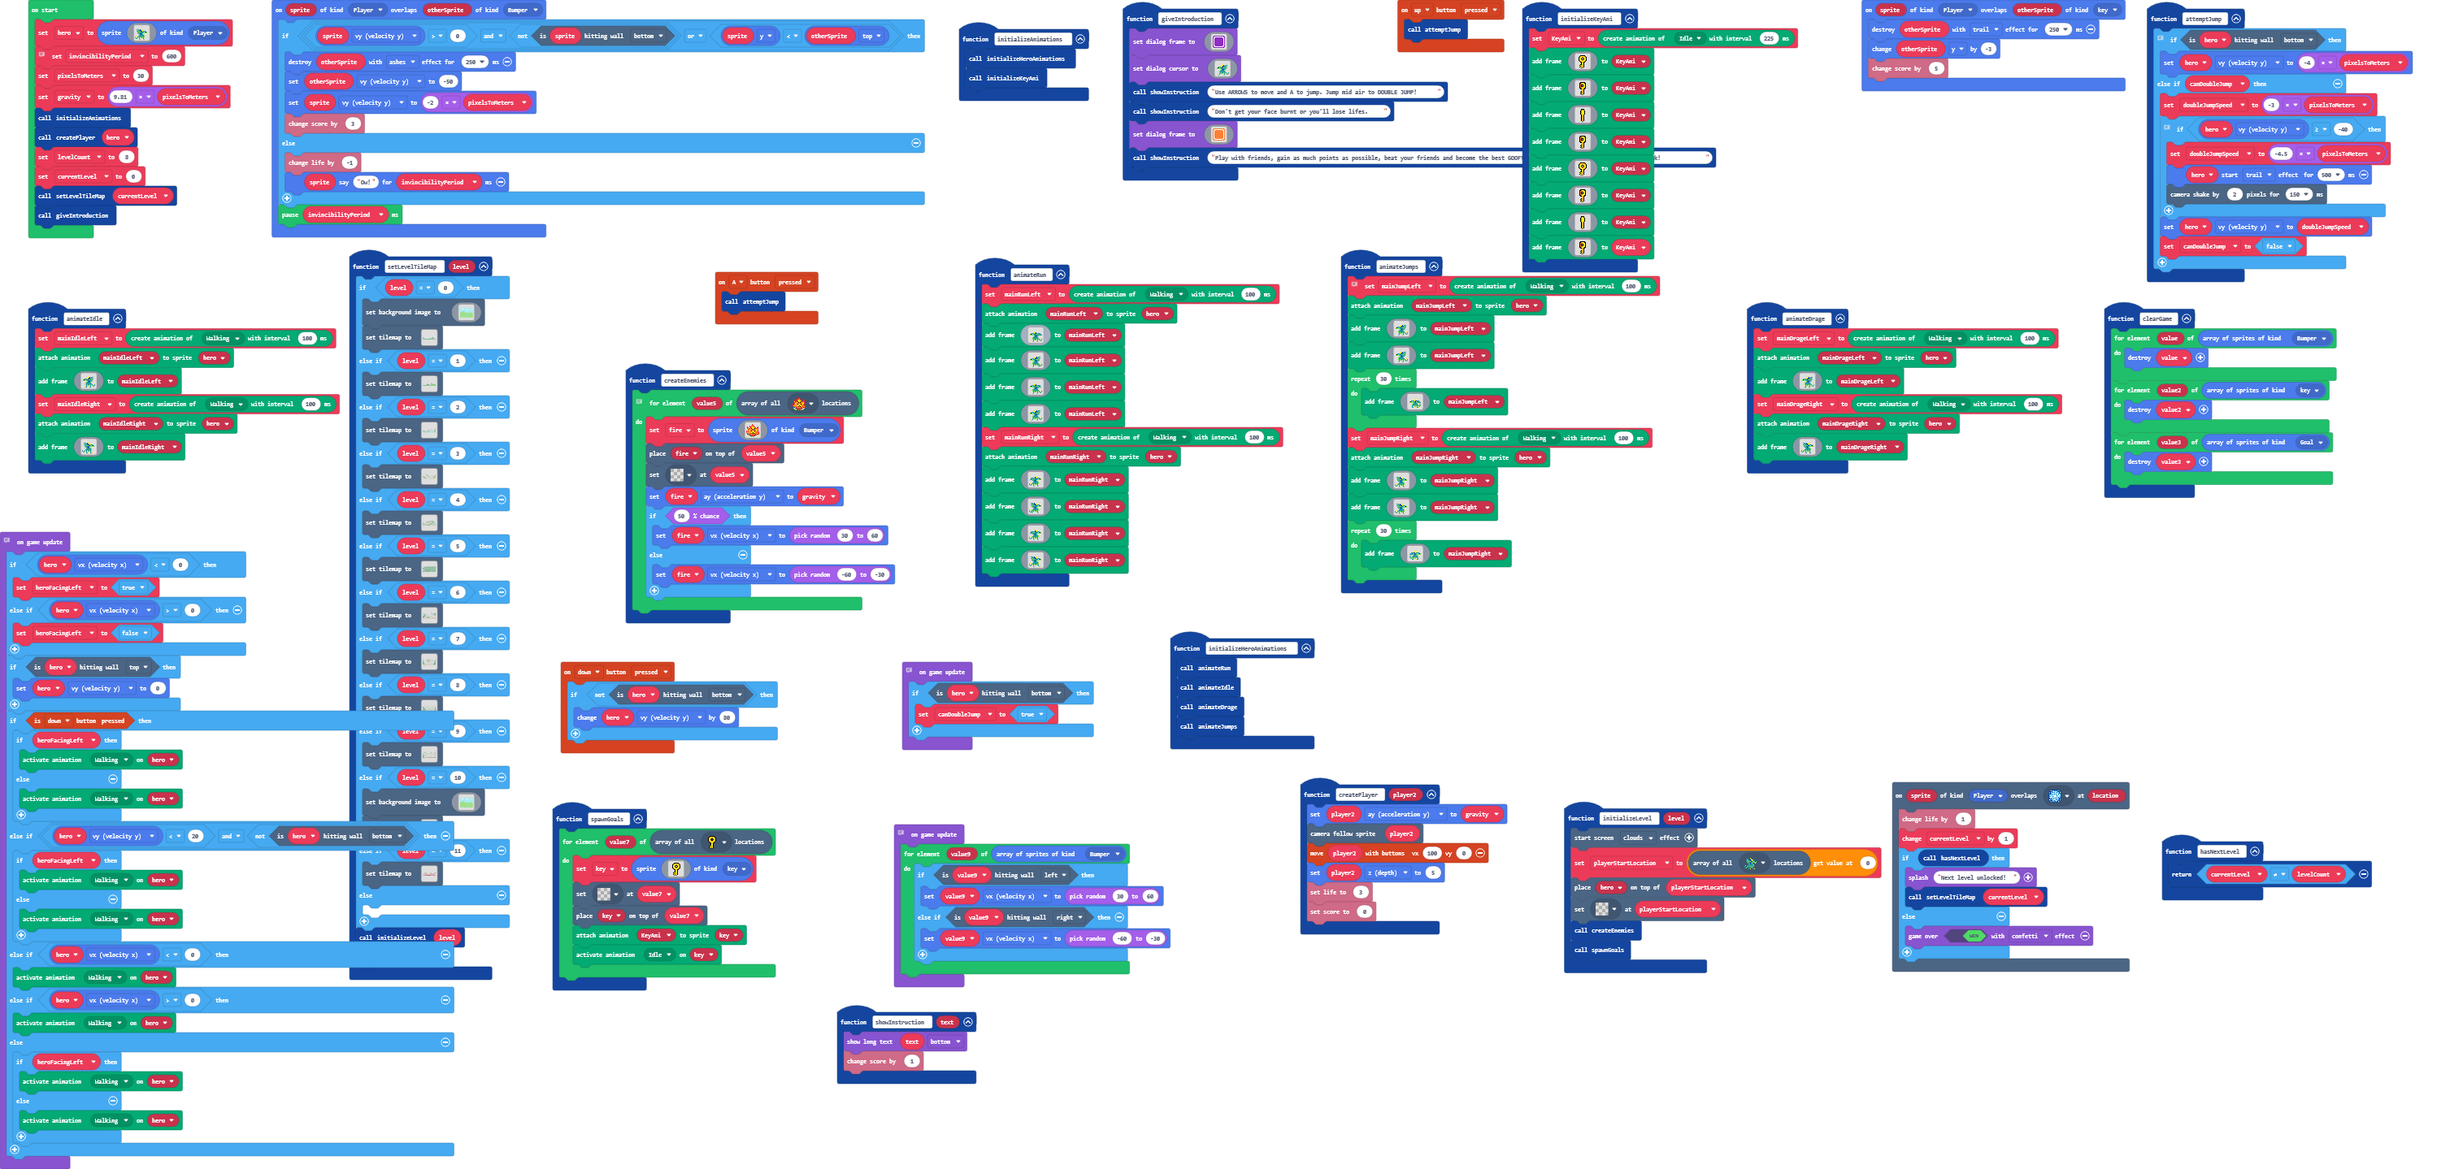
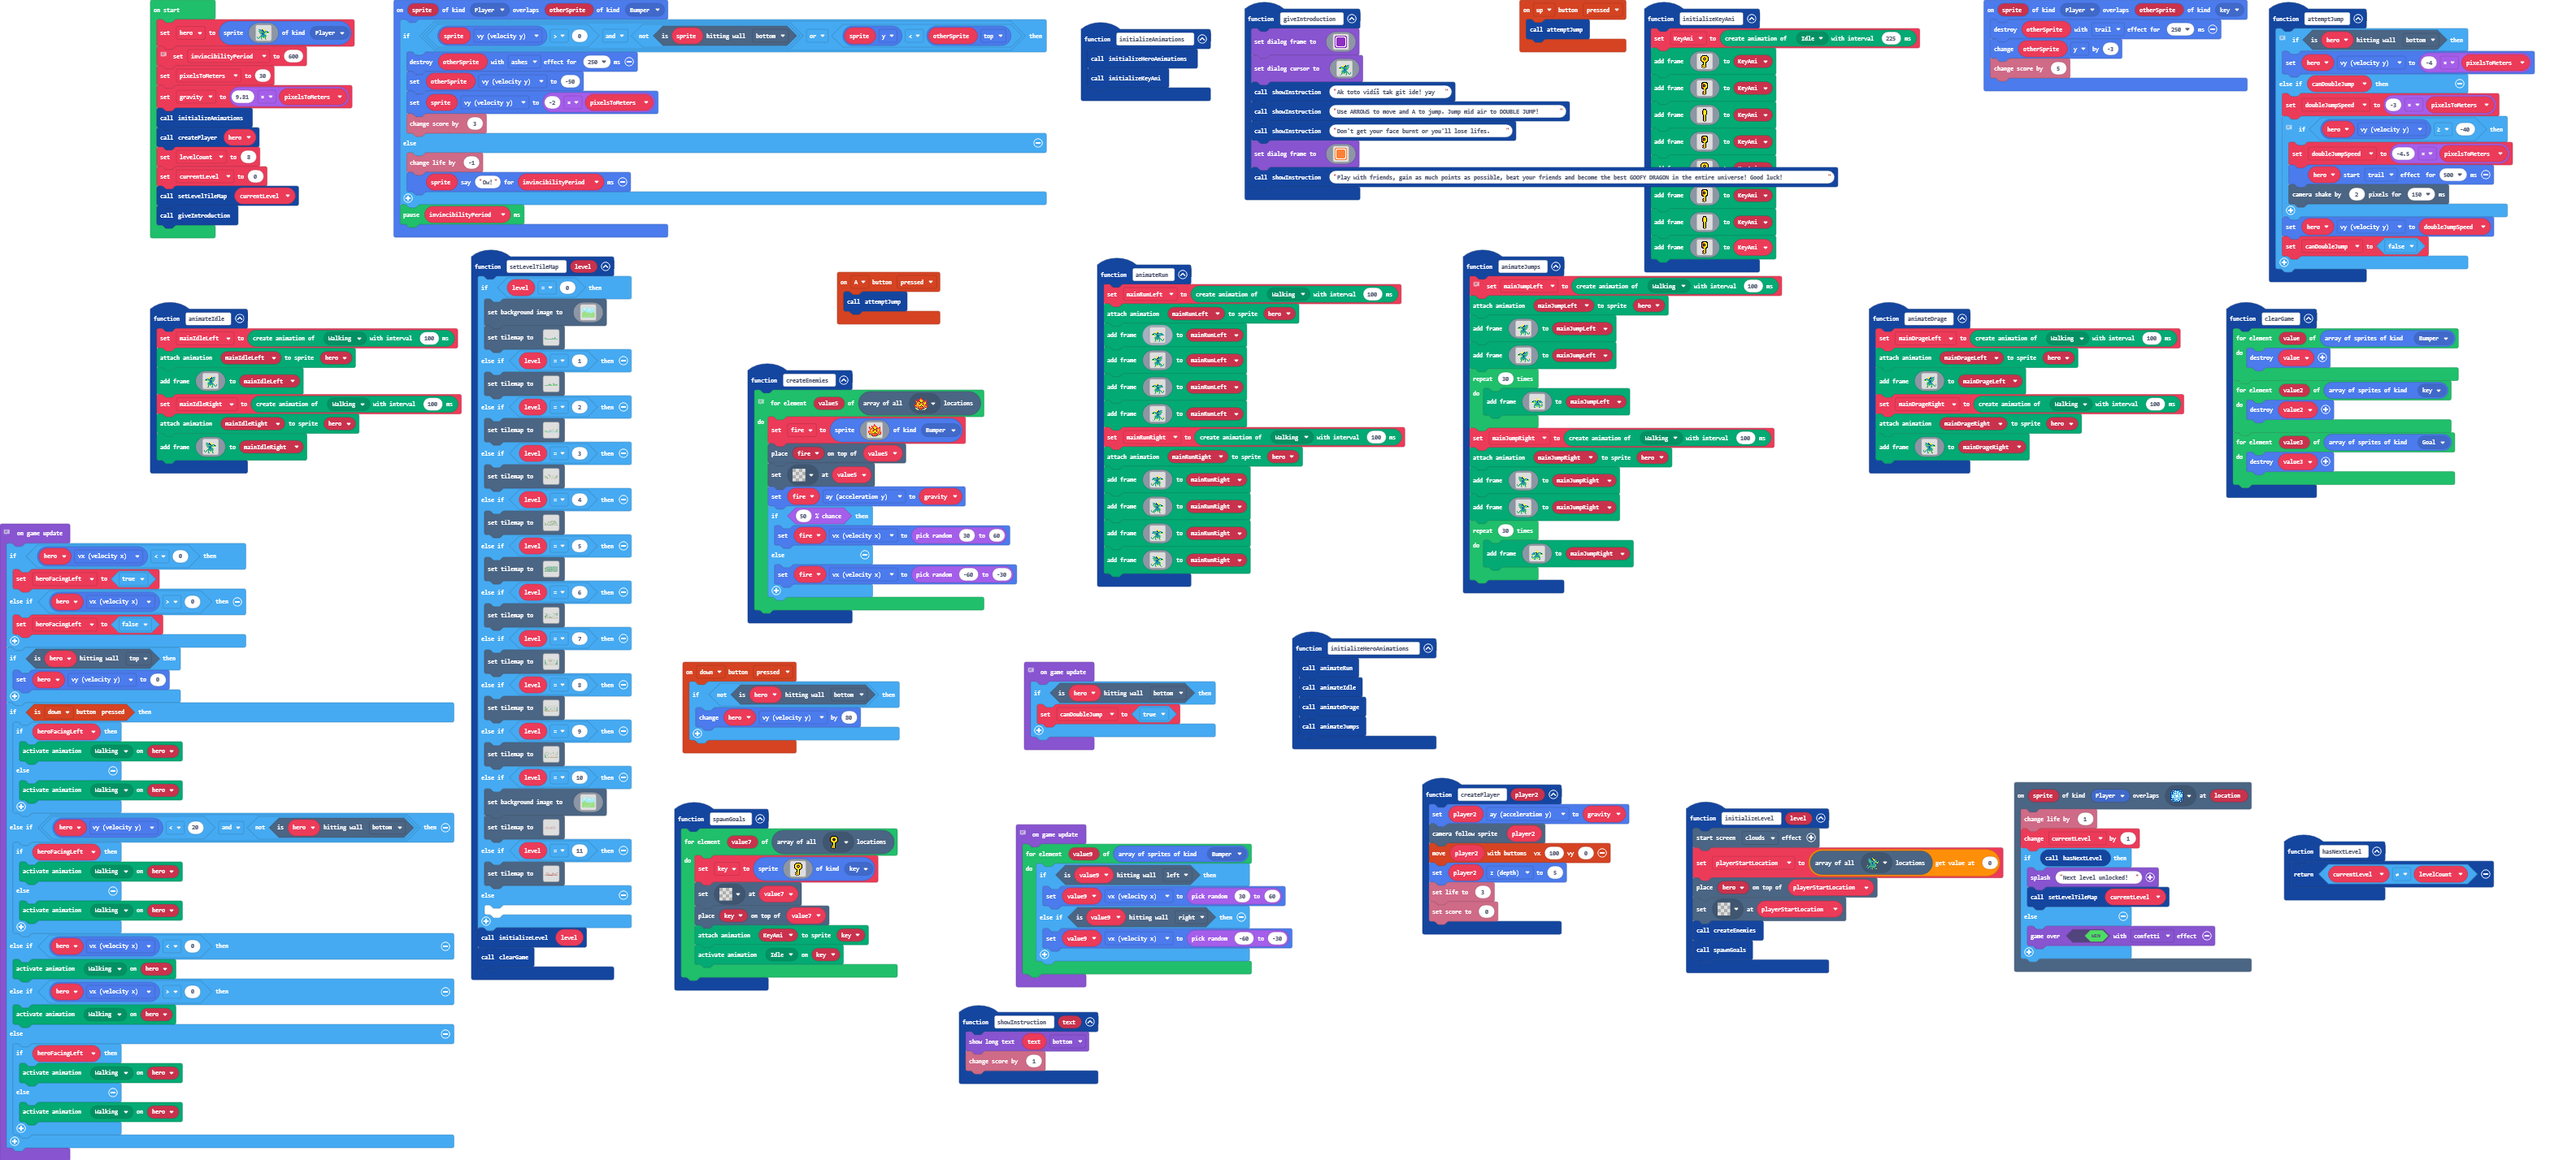
Update main.blocks, main.ts, tilemap.g.jres, tilemap.g.ts

diff --git a/tilemap.g.ts b/tilemap.g.ts
@@ -420,27 +420,6 @@ namespace myTiles {
 .2....22......22..22..22......2....222
 ...........22222222...................
 `, [myTiles.transparency16,myTiles.tile9,myTiles.tile8,myTiles.tile10,myTiles.tile11,sprites.builtin.forestTiles0,sprites.castle.tilePath3,sprites.castle.tilePath5,sprites.castle.tilePath1,sprites.builtin.forestTiles1,sprites.builtin.forestTiles3,sprites.builtin.forestTiles2], TileScale.Sixteen);
-            case "level21":
-            case "level21":return tiles.createTilemap(hex`28001200000000000000000000000000000000000000000000000000000000000000000000000000000000000000000000000000000000000000000000000000000000000002000000000000000000000000000400000000000000000000000000000000000000000000000000060800000000000000000000050003010000000000000000000000000000000000000000000000000000060803000000050302030607070707070708030300020000000000000000000000000000000000000000060800000607070707070700000000000607070707080000000000050000000000000000000000000000050000060707070707000000000000000000000005000000000000000000020000000000000000000000000000060707070000000005050000000000000500000000000000000500000000000000000000000000000006070700000005050505000000000000050000000000000000000000000000000000000000050000000607000000000505050505000000000005000000000000000000000000000300000500000005000000060303030205050505020500000000000000000000000000000000000608000000000000050000000005050505050505000000000000000000050000000000000000060800000000000000000005000000050505050505000003000000000000000500000000000006080000000000000000000000000500000505050505000000050000000000000005000503000000000000000000000000000000000000000005050500000000000000060800030607070707070800000000000000000000020000000000000000050500020200000000000000060707070802020707080000000000000000000500000000000000020000000000000000000000000000050000000000000607080000000000000000000000000000020503030203030203000303030003000003000003000003060708000303030303030303030303030607`, img`
-........................................
-........................................
-.........................22..........2..
-...........................22....2...222
-22222........................22..2222222
-.....222222.....2..............2..222222
-...........2........................2222
-....22......2........2...............222
-...2222......2....................2...22
-....22222.....2................2...2...2
-....2222.2.................22......2....
-2222222.........2........22.........2...
-222222..........2......22............2..
-22222...2.......2.2.....................
-222.......22..2222222...................
-22..........22222..222.........2........
-..............2......222...............2
-......................222.............22
-`, [myTiles.transparency16,myTiles.tile9,myTiles.tile8,myTiles.tile10,myTiles.tile11,sprites.builtin.forestTiles0,sprites.builtin.forestTiles1,sprites.builtin.forestTiles2,sprites.builtin.forestTiles3], TileScale.Sixteen);
             case "level18":
[1 lines of base64/hex data omitted]
 ............................................
@@ -516,6 +495,27 @@ namespace myTiles {
 222222......22....222...................22222...
 2222222.....2.......22.................22222222.
 `, [myTiles.transparency16,myTiles.tile9,myTiles.tile8,myTiles.tile10,sprites.builtin.forestTiles0,sprites.castle.tilePath2,sprites.builtin.oceanDepths0,sprites.castle.tilePath6,sprites.castle.tilePath5,sprites.castle.tilePath4,sprites.builtin.forestTiles1,sprites.builtin.forestTiles3,sprites.builtin.forestTiles2,sprites.builtin.forestTiles12,myTiles.tile11], TileScale.Sixteen);
+            case "level21":
+            case "level21":return tiles.createTilemap(hex`28001200000000000000000000000000000000000000000000000000000000000000000000000000000000000000000000000000000000000000000000000000000000000002000000000000000000000000000400000000000000000000000000000000000000000000000000060800000000000000000000050003010000000000000000000000000000000000000000000000000000060803000000050302030607070707070708030300020000000000000000000000000000000000000000060800000607070707070700000000000607070707080000000000050000000000000000000000000000050000060707070707000000000000000000000005000000000000000000020000000000000000000000000000060707070000000005050000000000000500000000000000000500000000000000000000000000000006070700000005050505000000000000050000000000000000000000000000000000000000050000000607000000000505050505000000000005000000000000000000000000000300000500000005000000060303030205050505020500000000000000000000000000000000000608000000000000050000000005050505050505000000000000000000050000000000000000060800000000000000000005000000050505050505000003000000000000000500000000000006080000000000000000000000000500000505050505000000050000000000000005000503000000000000000000000000000000000000000005050500000000000000060800030607070707070800000000000000000000020000000000000000050500020200000000000000060707070802020707080000000000000000000500000000000000020000000000000000000500000000050000000000000607080000000000000000000000000000020503030203030203000305030003000003000003000003060708000303030303030303030303030607`, img`
+........................................
+........................................
+.........................22..........2..
+...........................22....2...222
+22222........................22..2222222
+.....222222.....2..............2..222222
+...........2........................2222
+....22......2........2...............222
+...2222......2....................2...22
+....22222.....2................2...2...2
+....2222.2.................22......2....
+2222222.........2........22.........2...
+222222..........2......22............2..
+22222...2.......2.2.....................
+222.......22..2222222...................
+22..........22222..222.........2........
+.........2....2......222...............2
+.........2............222.............22
+`, [myTiles.transparency16,myTiles.tile9,myTiles.tile8,myTiles.tile10,myTiles.tile11,sprites.builtin.forestTiles0,sprites.builtin.forestTiles1,sprites.builtin.forestTiles2,sprites.builtin.forestTiles3], TileScale.Sixteen);
         }
         return null;
     })

diff --git a/main.ts b/main.ts
@@ -219,6 +219,7 @@ function giveIntroduction () {
         . . . . 6 . . . . . 6 . . 7 6 . 
         . 5 6 6 . . . . 5 6 6 . . . . . 
         `)
+    showInstruction("Ak toto vidíš tak git ide! yay")
     showInstruction("Use ARROWS to move and A to jump. Jump mid air to DOUBLE JUMP!")
     showInstruction("Don't get your face burnt or you'll lose lifes.")
     game.setDialogFrame(img`
